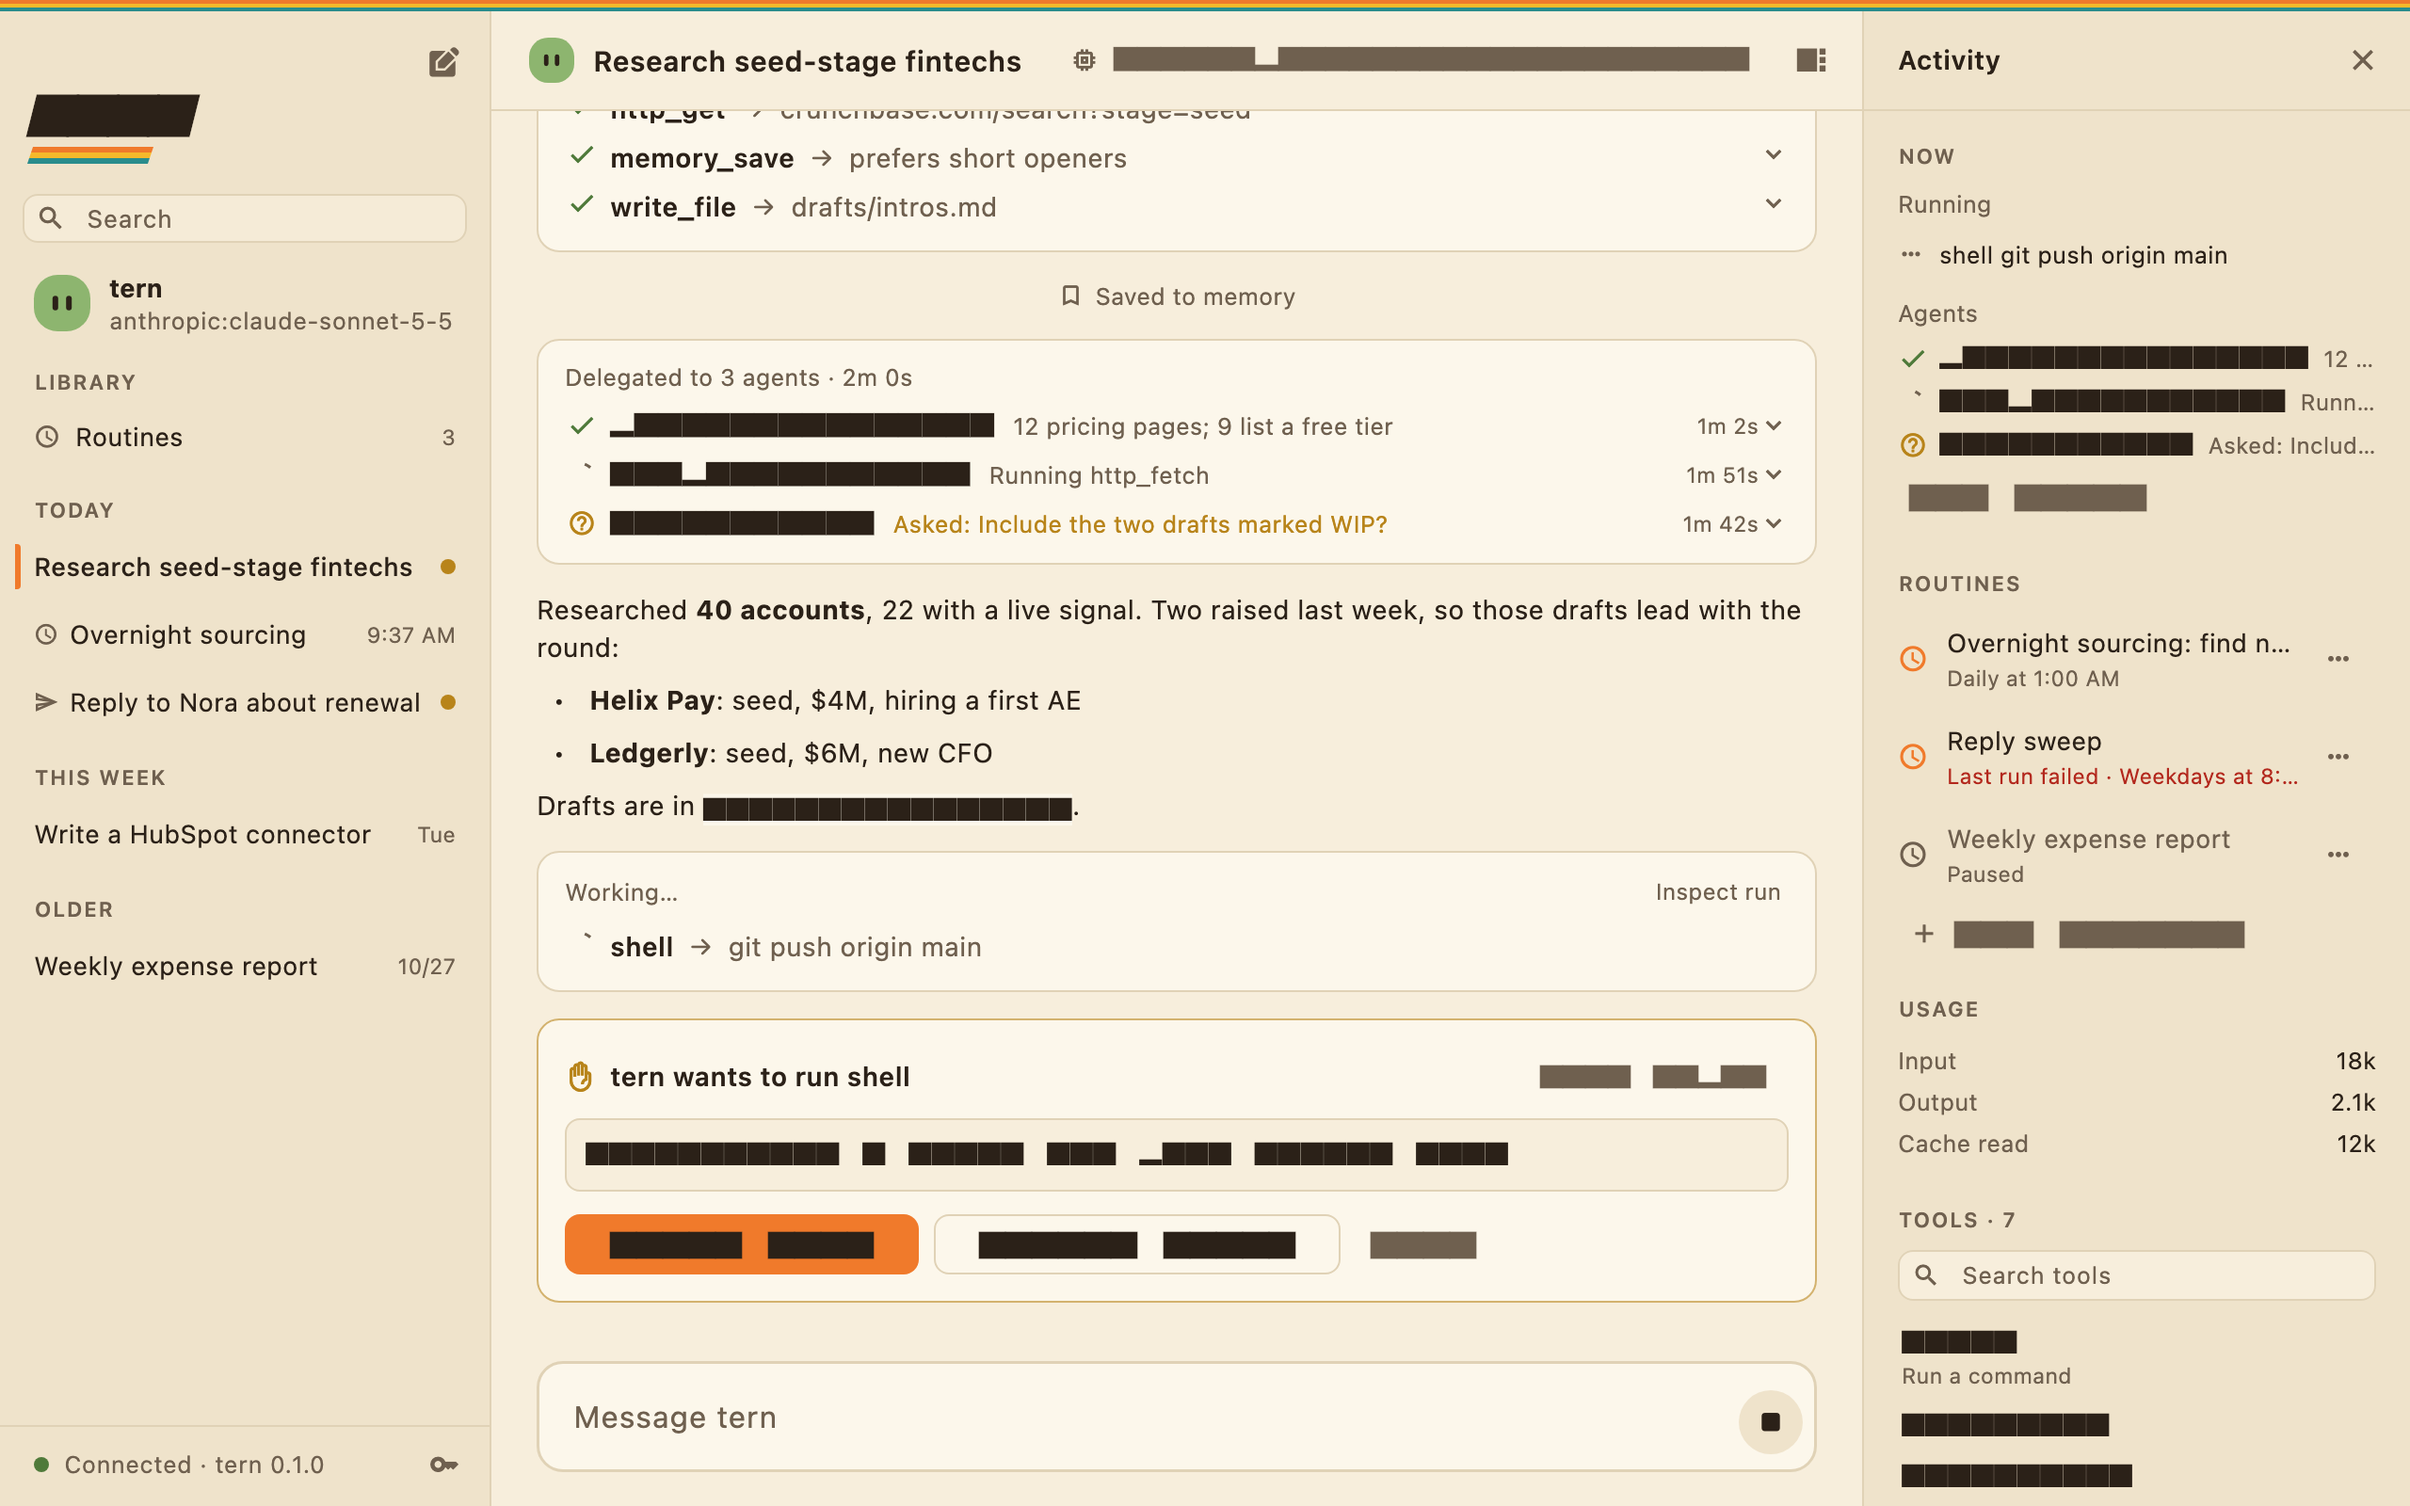
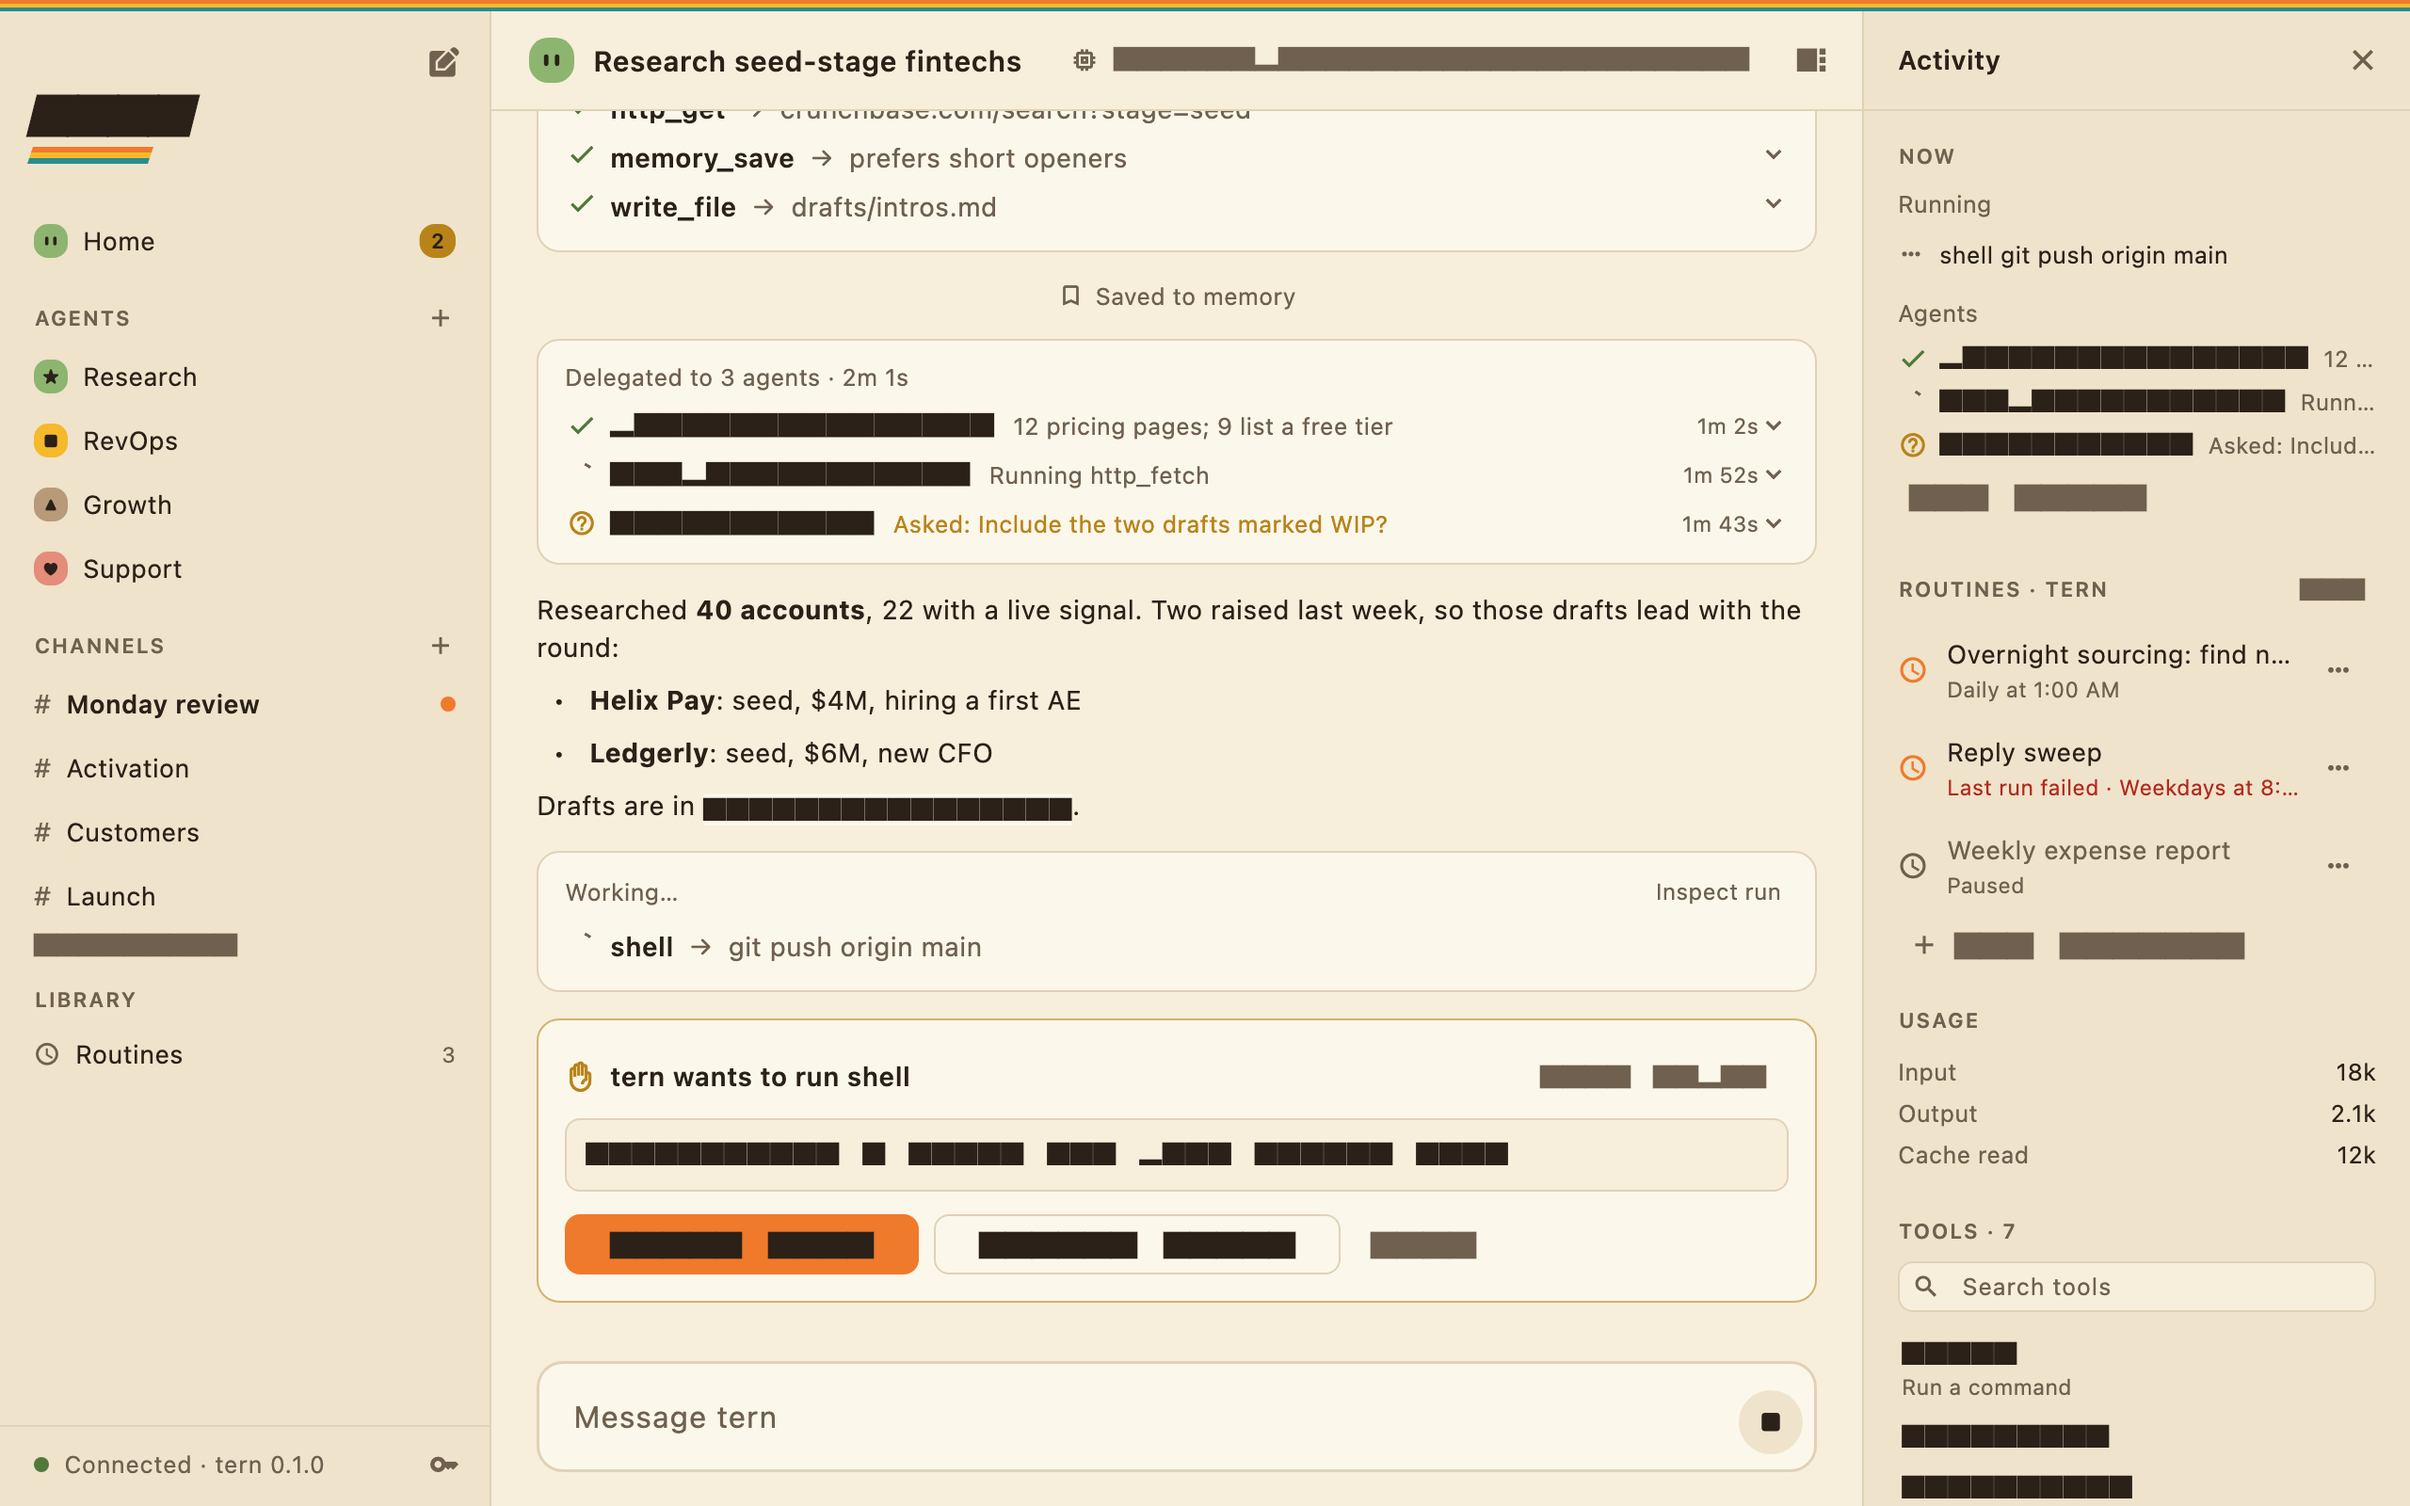
Screenshots: agents and channels in the desktop sidebar; real TUI render for the site

diff --git a/apps/desktop/test/screenshot_test.dart b/apps/desktop/test/screenshot_test.dart
@@ -33,7 +33,11 @@ TernStore demoStore() {
   final now = DateTime.now();
   final store = TernStore(TernClient(const Endpoint.unix('/nonexistent')))
     ..link = Link.online
-    ..health = const Health(pid: 1, version: '0.1.0')
+    ..health = const Health(
+      pid: 1,
+      version: '0.1.0',
+      features: {'channels', 'agents'},
+    )
     ..info = const Info(
       defaultModel: 'anthropic:claude-sonnet-5-5',
       tools: [
@@ -115,6 +119,93 @@ TernStore demoStore() {
       enabled: false,
     ),
   ];
+  const demoAgents = [
+    Agent(
+      id: 'tern',
+      slug: 'tern',
+      name: 'tern',
+      memory: 'shared',
+      mainChannelId: 'home',
+      isDefault: true,
+    ),
+    Agent(
+      id: 'tern:research',
+      slug: 'research',
+      name: 'Research',
+      avatar: AvatarSpec(glyph: '★', color: 'teal'),
+      mainChannelId: 'dm:research',
+    ),
+    Agent(
+      id: 'tern:revops',
+      slug: 'revops',
+      name: 'RevOps',
+      avatar: AvatarSpec(glyph: '■', color: 'amber'),
+      mainChannelId: 'dm:revops',
+    ),
+    Agent(
+      id: 'tern:growth',
+      slug: 'growth',
+      name: 'Growth',
+      avatar: AvatarSpec(glyph: '▲', color: 'violet'),
+      mainChannelId: 'dm:growth',
+    ),
+    Agent(
+      id: 'tern:support',
+      slug: 'support',
+      name: 'Support',
+      avatar: AvatarSpec(glyph: '♥', color: 'pink'),
+      mainChannelId: 'dm:support',
+    ),
+  ];
+  store.agents = demoAgents;
+  Channel topic(String slug, String title, int last, List<String> members) =>
+      Channel(
+        id: slug,
+        slug: slug,
+        title: title,
+        kind: 'topic',
+        agentId: 'tern',
+        mainSessionId: 'c-$slug',
+        lastPostId: last,
+        agents: ChannelAgents(
+          members: [
+            for (final (i, m) in members.indexed)
+              ChannelMember(agentId: m, lead: i == 0, addedAt: now),
+          ],
+          agentWakes: true,
+        ),
+        updatedAt: now,
+      );
+  store.channels = [
+    Channel(
+      id: 'home',
+      slug: 'home',
+      title: 'Home',
+      kind: 'main',
+      agentId: 'tern',
+      mainSessionId: 's1',
+      updatedAt: now,
+    ),
+    for (final a in demoAgents.skip(1))
+      Channel(
+        id: a.mainChannelId!,
+        slug: 'dm-${a.slug}',
+        title: a.name,
+        kind: 'main',
+        agentId: a.id,
+        updatedAt: now,
+      ),
+    topic('monday-review', 'Monday review', 4, ['tern:revops', 'tern']),
+    topic('activation', 'Activation', 6, ['tern:growth', 'tern:research']),
+    topic('customers', 'Customers', 3, ['tern:support', 'tern:revops']),
+    topic('launch', 'Launch', 2, ['tern:research', 'tern:growth', 'tern']),
+  ];
+  // Two channels have posts you haven't read, so the dots show.
+  store.lastSeen
+    ..['monday-review'] = 1
+    ..['activation'] = 6
+    ..['customers'] = 3
+    ..['launch'] = 2;
   store.selected = 's1';
   store.draft = false;
   final t0 = now.subtract(const Duration(seconds: 50));

diff --git a/crates/tern-tui/src/app/tests.rs b/crates/tern-tui/src/app/tests.rs
@@ -2162,3 +2162,60 @@ fn channels_and_agents_are_renamed_and_deleted_only_after_confirming() {
     submit(&mut app, "/agents delete inbox routines yes");
     assert!(fake.deletes.lock().unwrap()[2].2.delete_routines);
 }
+
+/// Renders the real TUI with demo data and writes the cell buffer as JSON to `$TERN_TUI_SHOT`, for the website and
+/// README screenshots. Run with `TERN_TUI_SHOT=out.json cargo test -p tern-tui demo_screenshot -- --ignored`.
+#[test]
+#[ignore]
+fn demo_screenshot() {
+    let Ok(path) = std::env::var("TERN_TUI_SHOT") else {
+        return;
+    };
+    let (mut app, _) = new_app();
+    app.model = Some("anthropic/claude-sonnet-5-5".into());
+    let tool = |id: &str, summary: &str| Entry::Tool {
+        id: id.into(),
+        summary: summary.into(),
+        state: ToolState::Ok,
+        output: String::new(),
+    };
+    app.entries = vec![
+        Entry::User(
+            "Trial accounts that crossed 100 events this week and aren't in the CRM at a later stage. \
+             Draft a founder note for each."
+                .into(),
+        ),
+        tool("1", "http_get api.acme.dev/v1/accounts?events_gte=100"),
+        tool("2", "crm_search stage != trial"),
+        Entry::Assistant {
+            text: "5 accounts qualify. One, Northwind, is already a paying customer, so I skipped it.\n\n\
+                   The other four have a draft in drafts/founder-notes.md, each citing that account's first-week \
+                   usage. Sending is waiting for your approval."
+                .into(),
+            streaming: false,
+        },
+        tool("3", "write_file drafts/founder-notes.md"),
+    ];
+    let (w, h) = (110u16, 20u16);
+    let mut t = Terminal::new(TestBackend::new(w, h)).unwrap();
+    t.draw(|f| crate::ui::draw(f, &mut app)).unwrap();
+    let buf = t.backend().buffer().clone();
+    let rows: Vec<Vec<serde_json::Value>> = (0..h)
+        .map(|y| {
+            (0..w)
+                .map(|x| {
+                    let c = &buf[(x, y)];
+                    json!([
+                        c.symbol(),
+                        format!("{:?}", c.fg),
+                        format!("{:?}", c.bg),
+                        c.modifier.bits()
+                    ])
+                })
+                .collect()
+        })
+        .collect();
+    std::fs::write(path, json!({ "w": w, "h": h, "rows": rows }).to_string()).unwrap();
+    // Plain text too, so the layout can be eyeballed.
+    eprintln!("{}", screen(&mut app, w, h));
+}

diff --git a/scripts/render_tui_screenshot.py b/scripts/render_tui_screenshot.py
@@ -1,0 +1,34 @@
+"""Renders the JSON cell dump from the tern-tui demo_screenshot test to a PNG (needs Pillow, macOS Menlo).
+   TERN_TUI_SHOT=out.json cargo test -p tern-tui demo_screenshot -- --ignored
+   python3 scripts/render_tui_screenshot.py out.json docs/assets/tui.png"""
+import json, sys
+from PIL import Image, ImageDraw, ImageFont
+src, out = sys.argv[1], sys.argv[2]
+d = json.load(open(src))
+BG = (0x1F, 0x18, 0x12); FG = (0xF3, 0xE8, 0xD2)
+COL = {"Reset": None, "DarkGray": (0x9A, 0x8B, 0x74), "Green": (0x8D, 0xB5, 0x6F), "Cyan": (0x4D, 0xB3, 0xAE),
+       "White": FG, "Yellow": (0xF9, 0xC8, 0x46), "Red": (0xF0, 0x8A, 0x7A), "Gray": (0xB3, 0xA5, 0x8F)}
+BGC = {"Reset": BG, "DarkGray": (0x3D, 0x32, 0x26)}
+SCALE = 2; SIZE = 15 * SCALE
+reg = ImageFont.truetype("/System/Library/Fonts/Menlo.ttc", SIZE, index=0)
+bold = ImageFont.truetype("/System/Library/Fonts/Menlo.ttc", SIZE, index=1)
+cw = round(reg.getlength("M")); ch = round(SIZE * 1.32)
+pad = 22 * SCALE; bar = 36 * SCALE
+W = d["w"] * cw + pad * 2; H = d["h"] * ch + pad * 2 + bar
+img = Image.new("RGB", (W, H), BG); dr = ImageDraw.Draw(img)
+# title bar with the brand stripe
+dr.rectangle([0, 0, W, bar], fill=(0x26, 0x1E, 0x17))
+for i, c in enumerate([(0xF5, 0x8A, 0x3D), (0xF9, 0xC8, 0x46), (0x4D, 0xB3, 0xAE)]):
+    dr.rectangle([0, i * 3 * SCALE, W, (i + 1) * 3 * SCALE], fill=c)
+dr.text((pad, bar // 2 + 3 * SCALE), "tern", font=bold, fill=FG, anchor="lm")
+for y, row in enumerate(d["rows"]):
+    for x, (sym, fg, bg, mod) in enumerate(row):
+        px, py = pad + x * cw, bar + pad + y * ch
+        b = BGC.get(bg, BG)
+        if b != BG: dr.rectangle([px, py, px + cw, py + ch], fill=b)
+        if sym.strip():
+            f = COL.get(fg) or FG
+            if bg == "DarkGray" and fg == "White": f = FG
+            dr.text((px, py), sym, font=bold if mod & 1 else reg, fill=f)
+img.save(out)
+print(img.size)
